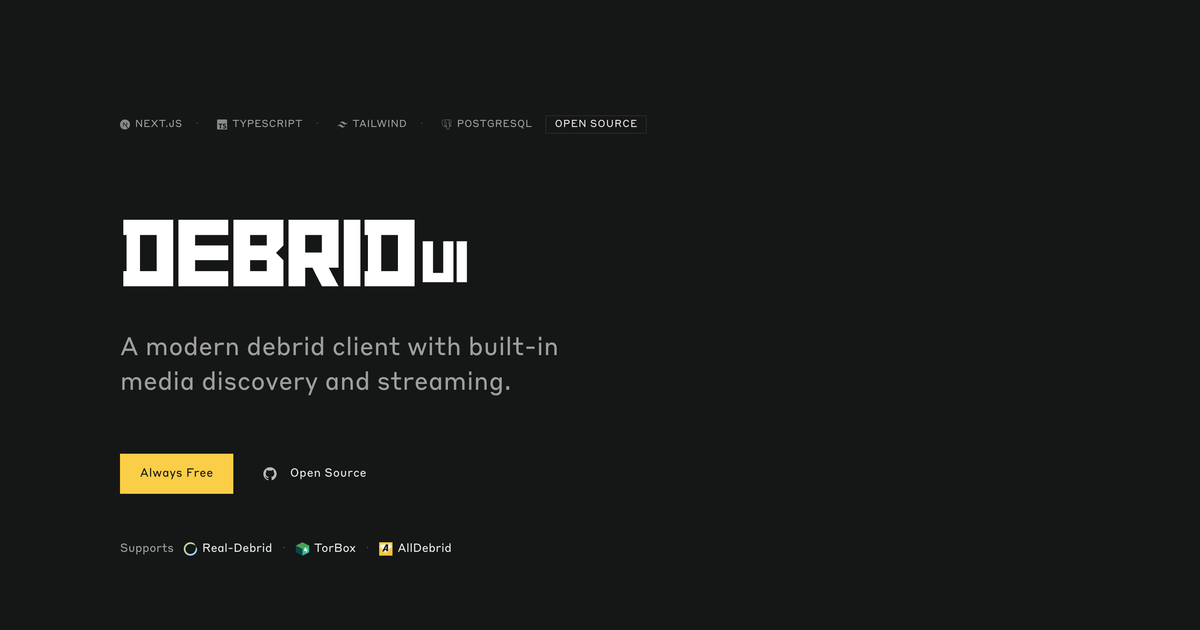
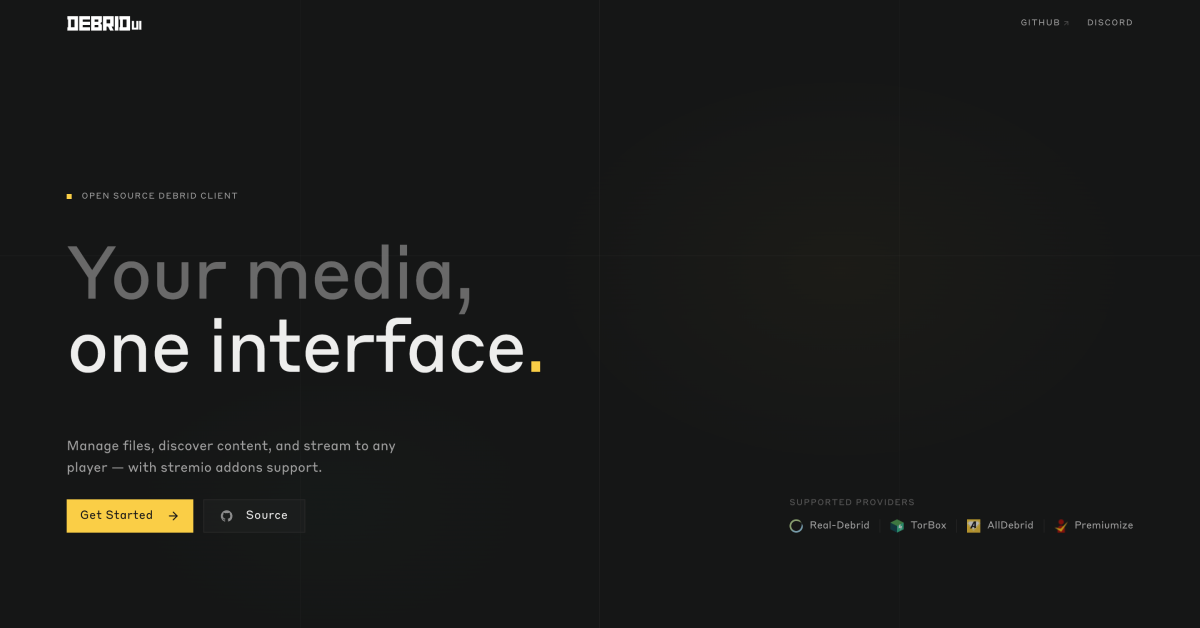
refactor: landing page polish and dynamic stats
- Compact capabilities section with 3-column grid layout
- Show provider names on mobile in 2x2 grid
- Derive provider count, file preview count, and player count from source data
- Remove hardcoded Trakt.tv mention
- Rename "Players" to "External players"
- Change "Source Code" to "Source" in hero CTA

diff --git a/lib/actions/playback-history.ts b/lib/actions/playback-history.ts
@@ -9,6 +9,7 @@ import { headers } from "next/headers";
 import { redirect } from "next/navigation";
 import { recordPlaybackSchema, removePlaybackSchema } from "@/lib/schemas";
 import { getPosterUrl } from "@/lib/utils/media";
+import { v7 as uuidv7 } from "uuid";
 import { z } from "zod";
 
 /**
@@ -36,6 +37,7 @@ export async function recordPlayback(input: z.infer<typeof recordPlaybackSchema>
         await db
             .insert(playbackHistory)
             .values({
+                id: uuidv7(),
                 userId: session.user.id,
                 imdbId,
                 type,
